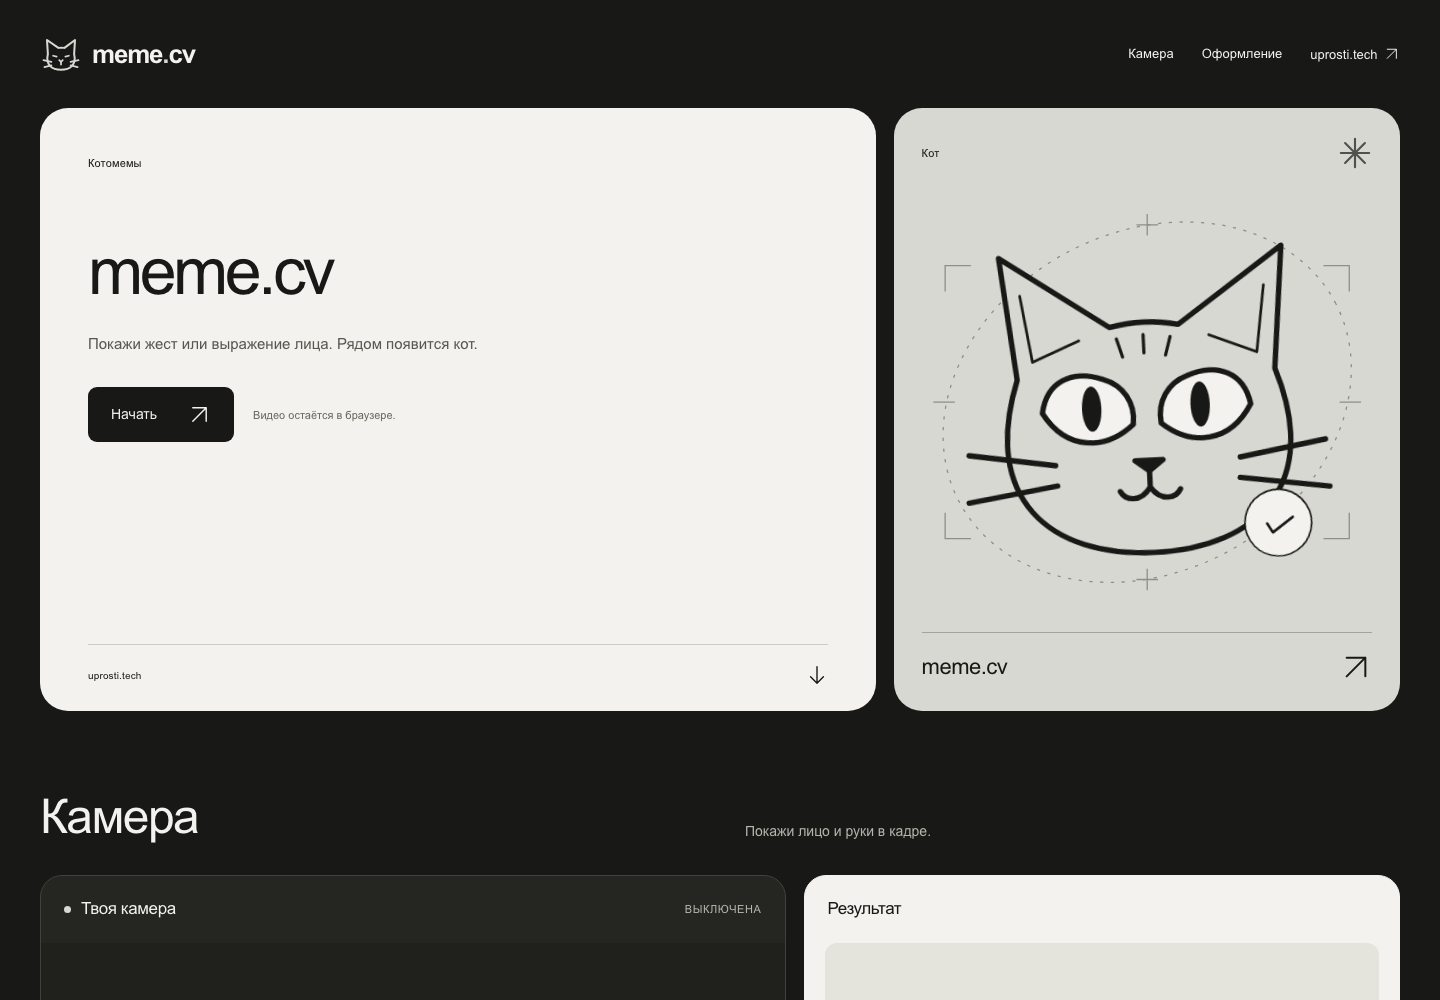
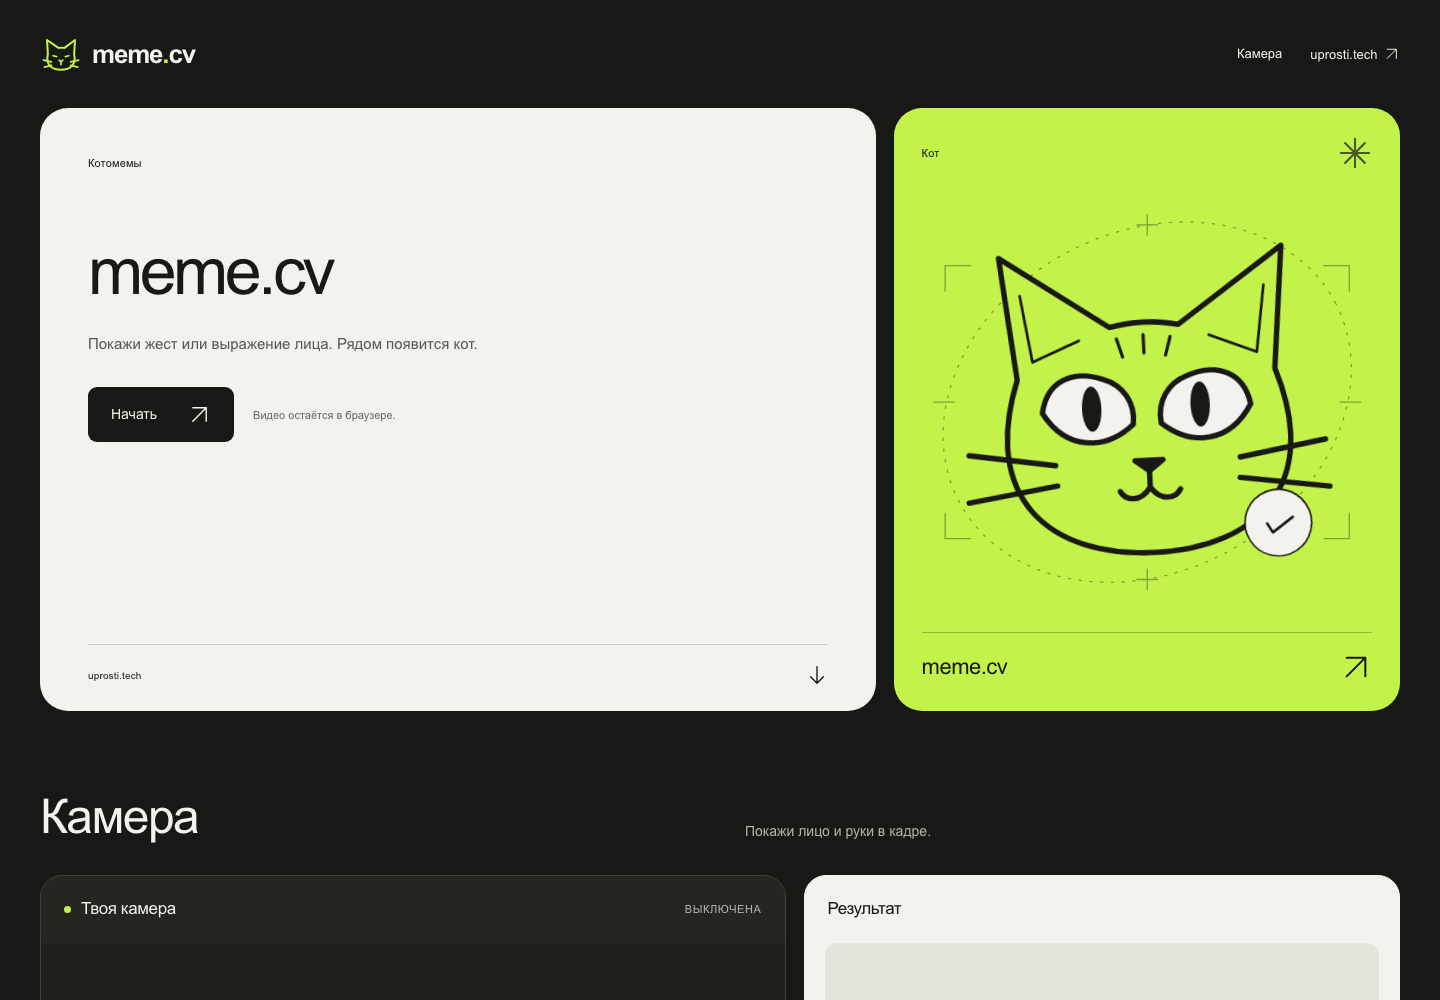
style: use lime sitewide and remove palette preview page

diff --git a/e2e/icons.spec.ts b/e2e/icons.spec.ts
@@ -23,3 +23,27 @@ test('iPhone UI uses SVG paths instead of emoji-capable decoration', async ({ pa
   await expect(page.locator('.advanced-settings > summary svg')).toHaveAttribute('data-icon', 'plus')
   await page.screenshot({ path: 'test-results/iphone-icons.png', fullPage: true })
 })
+
+test('lime styling ignores legacy palette settings and preserves calibration', async ({ page }) => {
+  await page.addInitScript(() => {
+    localStorage.setItem('meme-cv-theme-v1', 'rose')
+    localStorage.setItem('meme-cv-calibration-v1', JSON.stringify({ poses: {}, neutral: { eyesOpen: .7 } }))
+  })
+  await page.goto('/')
+  await expect(page.locator('.hero-cat-card')).toHaveCSS('background-color', 'rgb(195, 243, 74)')
+  await expect(page.locator('.brand-mark')).toHaveCSS('color', 'rgb(195, 243, 74)')
+  await expect(page.getByRole('link', { name: 'Оформление', exact: true })).toHaveCount(0)
+  await page.reload()
+  await expect(page.locator('.hero-cat-card')).toHaveCSS('background-color', 'rgb(195, 243, 74)')
+  expect(await page.evaluate(() => JSON.parse(localStorage.getItem('meme-cv-calibration-v1')!).neutral.eyesOpen)).toBe(.7)
+})
+
+test('retired theme preview URLs lead to the homepage', async ({ page }) => {
+  for (const path of ['/themes', '/themes/', '/themese']) {
+    await page.goto(path)
+    await expect(page).toHaveURL(/\/$/)
+    await expect(page.getByRole('heading', { level: 1 })).toHaveText('meme.cv')
+    await expect(page.getByRole('radio')).toHaveCount(0)
+    await expect(page.locator('.hero-cat-card')).toHaveCSS('background-color', 'rgb(195, 243, 74)')
+  }
+})

diff --git a/src/App.tsx b/src/App.tsx
@@ -251,7 +251,7 @@ export default function App() {
   const busy = status === 'loading'
   return <main>
     <a className="skip-link" href="#playground">Перейти к камере</a>
-    <header className="topbar"><a className="brand" href="/"><CatMark className="brand-mark" /><span>meme<span className="brand-dot">.</span>cv</span></a><nav className="site-nav" aria-label="Навигация"><a href="#playground">Камера</a><a href="/themes">Оформление</a><a href="https://uprosti.tech">uprosti.tech <Icon name="arrow-up-right" /></a></nav></header>
+    <header className="topbar"><a className="brand" href="/"><CatMark className="brand-mark" /><span>meme<span className="brand-dot">.</span>cv</span></a><nav className="site-nav" aria-label="Навигация"><a href="#playground">Камера</a><a href="https://uprosti.tech">uprosti.tech <Icon name="arrow-up-right" /></a></nav></header>
     <ReleaseHero onStart={() => { void start(); document.getElementById('playground')?.scrollIntoView({ behavior: matchMedia('(prefers-reduced-motion: reduce)').matches ? 'auto' : 'smooth', block: 'start' }) }} busy={busy} running={status === 'running'} />
     <section className="section-kicker" id="playground"><div><h2>Камера</h2></div><p>Покажи лицо и руки в кадре.</p></section>
     <div className="workspace">

diff --git a/src/components/ReleaseHero.tsx b/src/components/ReleaseHero.tsx
@@ -4,17 +4,15 @@ type ReleaseHeroProps = {
   onStart: () => void
   busy: boolean
   running: boolean
-  preview?: boolean
 }
 
 /** Camera access is requested only by the explicit start button. */
-export function ReleaseHero({ onStart, busy, running, preview = false }: ReleaseHeroProps) {
-  const Heading = preview ? 'h2' : 'h1'
+export function ReleaseHero({ onStart, busy, running }: ReleaseHeroProps) {
   return (
     <section className="release-hero" aria-labelledby="release-title">
       <div className="hero-copy">
         <div className="eyebrow">Котомемы</div>
-        <Heading id="release-title" className="release-title">meme.cv</Heading>
+        <h1 id="release-title" className="release-title">meme.cv</h1>
         <p className="hero-description">Покажи жест или выражение лица. Рядом появится кот.</p>
         <div className="hero-action-row">
           {running ? (

diff --git a/src/main.tsx b/src/main.tsx
@@ -2,18 +2,13 @@ import { StrictMode } from 'react'
 import { createRoot } from 'react-dom/client'
 import './index.css'
 import App from './App.tsx'
-import { ThemePage } from './components/ThemePage'
-import { applyTheme, loadTheme, themeStorageKey } from './lib/theme'
-
-applyTheme(loadTheme())
-window.addEventListener('storage', event => {
-  if (event.key === themeStorageKey || event.key === null) applyTheme(loadTheme())
-})
-const isThemesPage = window.location.pathname.replace(/\/+$/, '') === '/themes'
-if (isThemesPage) document.title = 'Оформление · meme.cv'
+// Retired palette previews now lead to the camera page.
+if (['/themes', '/themese'].includes(window.location.pathname.replace(/\/+$/, ''))) {
+  window.history.replaceState(null, '', '/')
+}
 
 createRoot(document.getElementById('root')!).render(
   <StrictMode>
-    {isThemesPage ? <ThemePage /> : <App />}
+    <App />
   </StrictMode>,
 )

diff --git a/src/App.css b/src/App.css
@@ -1721,7 +1721,7 @@ footer > span { line-height: 1.8; }
 .hero-card-star.ui-icon { width: 34px; height: 34px; }
 .viewfinder > .ui-icon { width: 30px; height: 30px; }
 
-/* Palette shared by the camera page and /themes. */
+/* Shared lime accent. */
 .switch span::after { background: var(--paper); }
 .hero-card-star { opacity: .7; }
 .export-row { padding-top: 24px; }

diff --git a/src/index.css b/src/index.css
@@ -10,7 +10,7 @@
   color-scheme: dark;
   --paper: #f3f2ee;
   --ink: #181816;
-  --accent: #d8d8d2;
+  --accent: #c3f34a;
   --control-accent: color-mix(in srgb, var(--accent) 48%, #181816);
   --muted: #b5b5ad;
   --line: #42423c;

diff --git a/README.md b/README.md
@@ -1,7 +1,7 @@
 # meme.cv
 
 [![CI](https://github.com/NotAKes/meme-cv/actions/workflows/ci.yml/badge.svg)](https://github.com/NotAKes/meme-cv/actions/workflows/ci.yml)
-[![Demo](https://img.shields.io/badge/demo-meme--cv.uprosti.tech-d8d8d2)](https://meme-cv.uprosti.tech)
+[![Demo](https://img.shields.io/badge/demo-meme--cv.uprosti.tech-c3f34a)](https://meme-cv.uprosti.tech)
 
 Computer vision in the browser: match facial expressions and hand gestures to cat memes in real time. Built with TypeScript, MediaPipe and Canvas. Inference runs on the device; camera frames are not uploaded.
 
@@ -83,7 +83,7 @@ npm run dev
 - Переключаемый CV Overlay: рамки, контуры лица, скелет рук, пальцы, сетка лица.
 - PNG-коллаж из кадра камеры и выбранной картинки, с разметкой или без неё.
 - Адаптивный интерфейс, клавиатурный фокус, reduced motion.
-- Нейтральное оформление по умолчанию. На [`/themes`](https://meme-cv.uprosti.tech/themes) можно выбрать одну из двенадцати палитр. Выбор хранится отдельно от калибровки и применяется на главной.
+- Графитовый фон и лаймовый акцент на всех экранах.
 - Локальная обработка и сохранение числовой калибровки.
 
 ## Проверки
@@ -97,7 +97,7 @@ npm run test:e2e
 ```
 
 - **94 модульных теста**: геометрия, слияние оценок жестов, калибровка, пиксельный анализ языка, временное подтверждение, ранжирование и стабилизация.
-- **14 браузерных тестов**: управление камерой, отказ в доступе, overlay, мобильная ширина, SVG-иконки и палитры в WebKit с профилем iPhone, необязательная калибровка и запись персонального профиля.
+- **11 браузерных тестов**: управление камерой, отказ в доступе, overlay, мобильная ширина, SVG-иконки и единое оформление в WebKit с профилем iPhone, необязательная калибровка и запись персонального профиля.
 - Один браузерный тест запускает настоящие модели на синтетическом видеопотоке. Для проверки мастера калибровки подставляются числовые наблюдения.
 - Регрессионные фикстуры содержат реальные числовые выходы MediaPipe на тестовых фотографиях.
 

diff --git a/docs/DEPLOYMENT.md b/docs/DEPLOYMENT.md
@@ -68,7 +68,7 @@ meme-cv.example.com {
 
 - HTTPS возвращает валидный сертификат.
 - HTML/JS/CSS и модели отвечают 200 с правильным Content-Type.
-- Прямое открытие `/themes` возвращает приложение; выбор цвета сохраняется при переходе на `/`.
+- Старые адреса `/themes` и `/themese` ведут на главную; переключателя цвета больше нет.
 - `.parts/manifest.json` содержит JSON, а не SPA-fallback HTML.
 - Отсутствующий файл модели отвечает 404.
 - WASM отдаётся как `application/wasm`.
